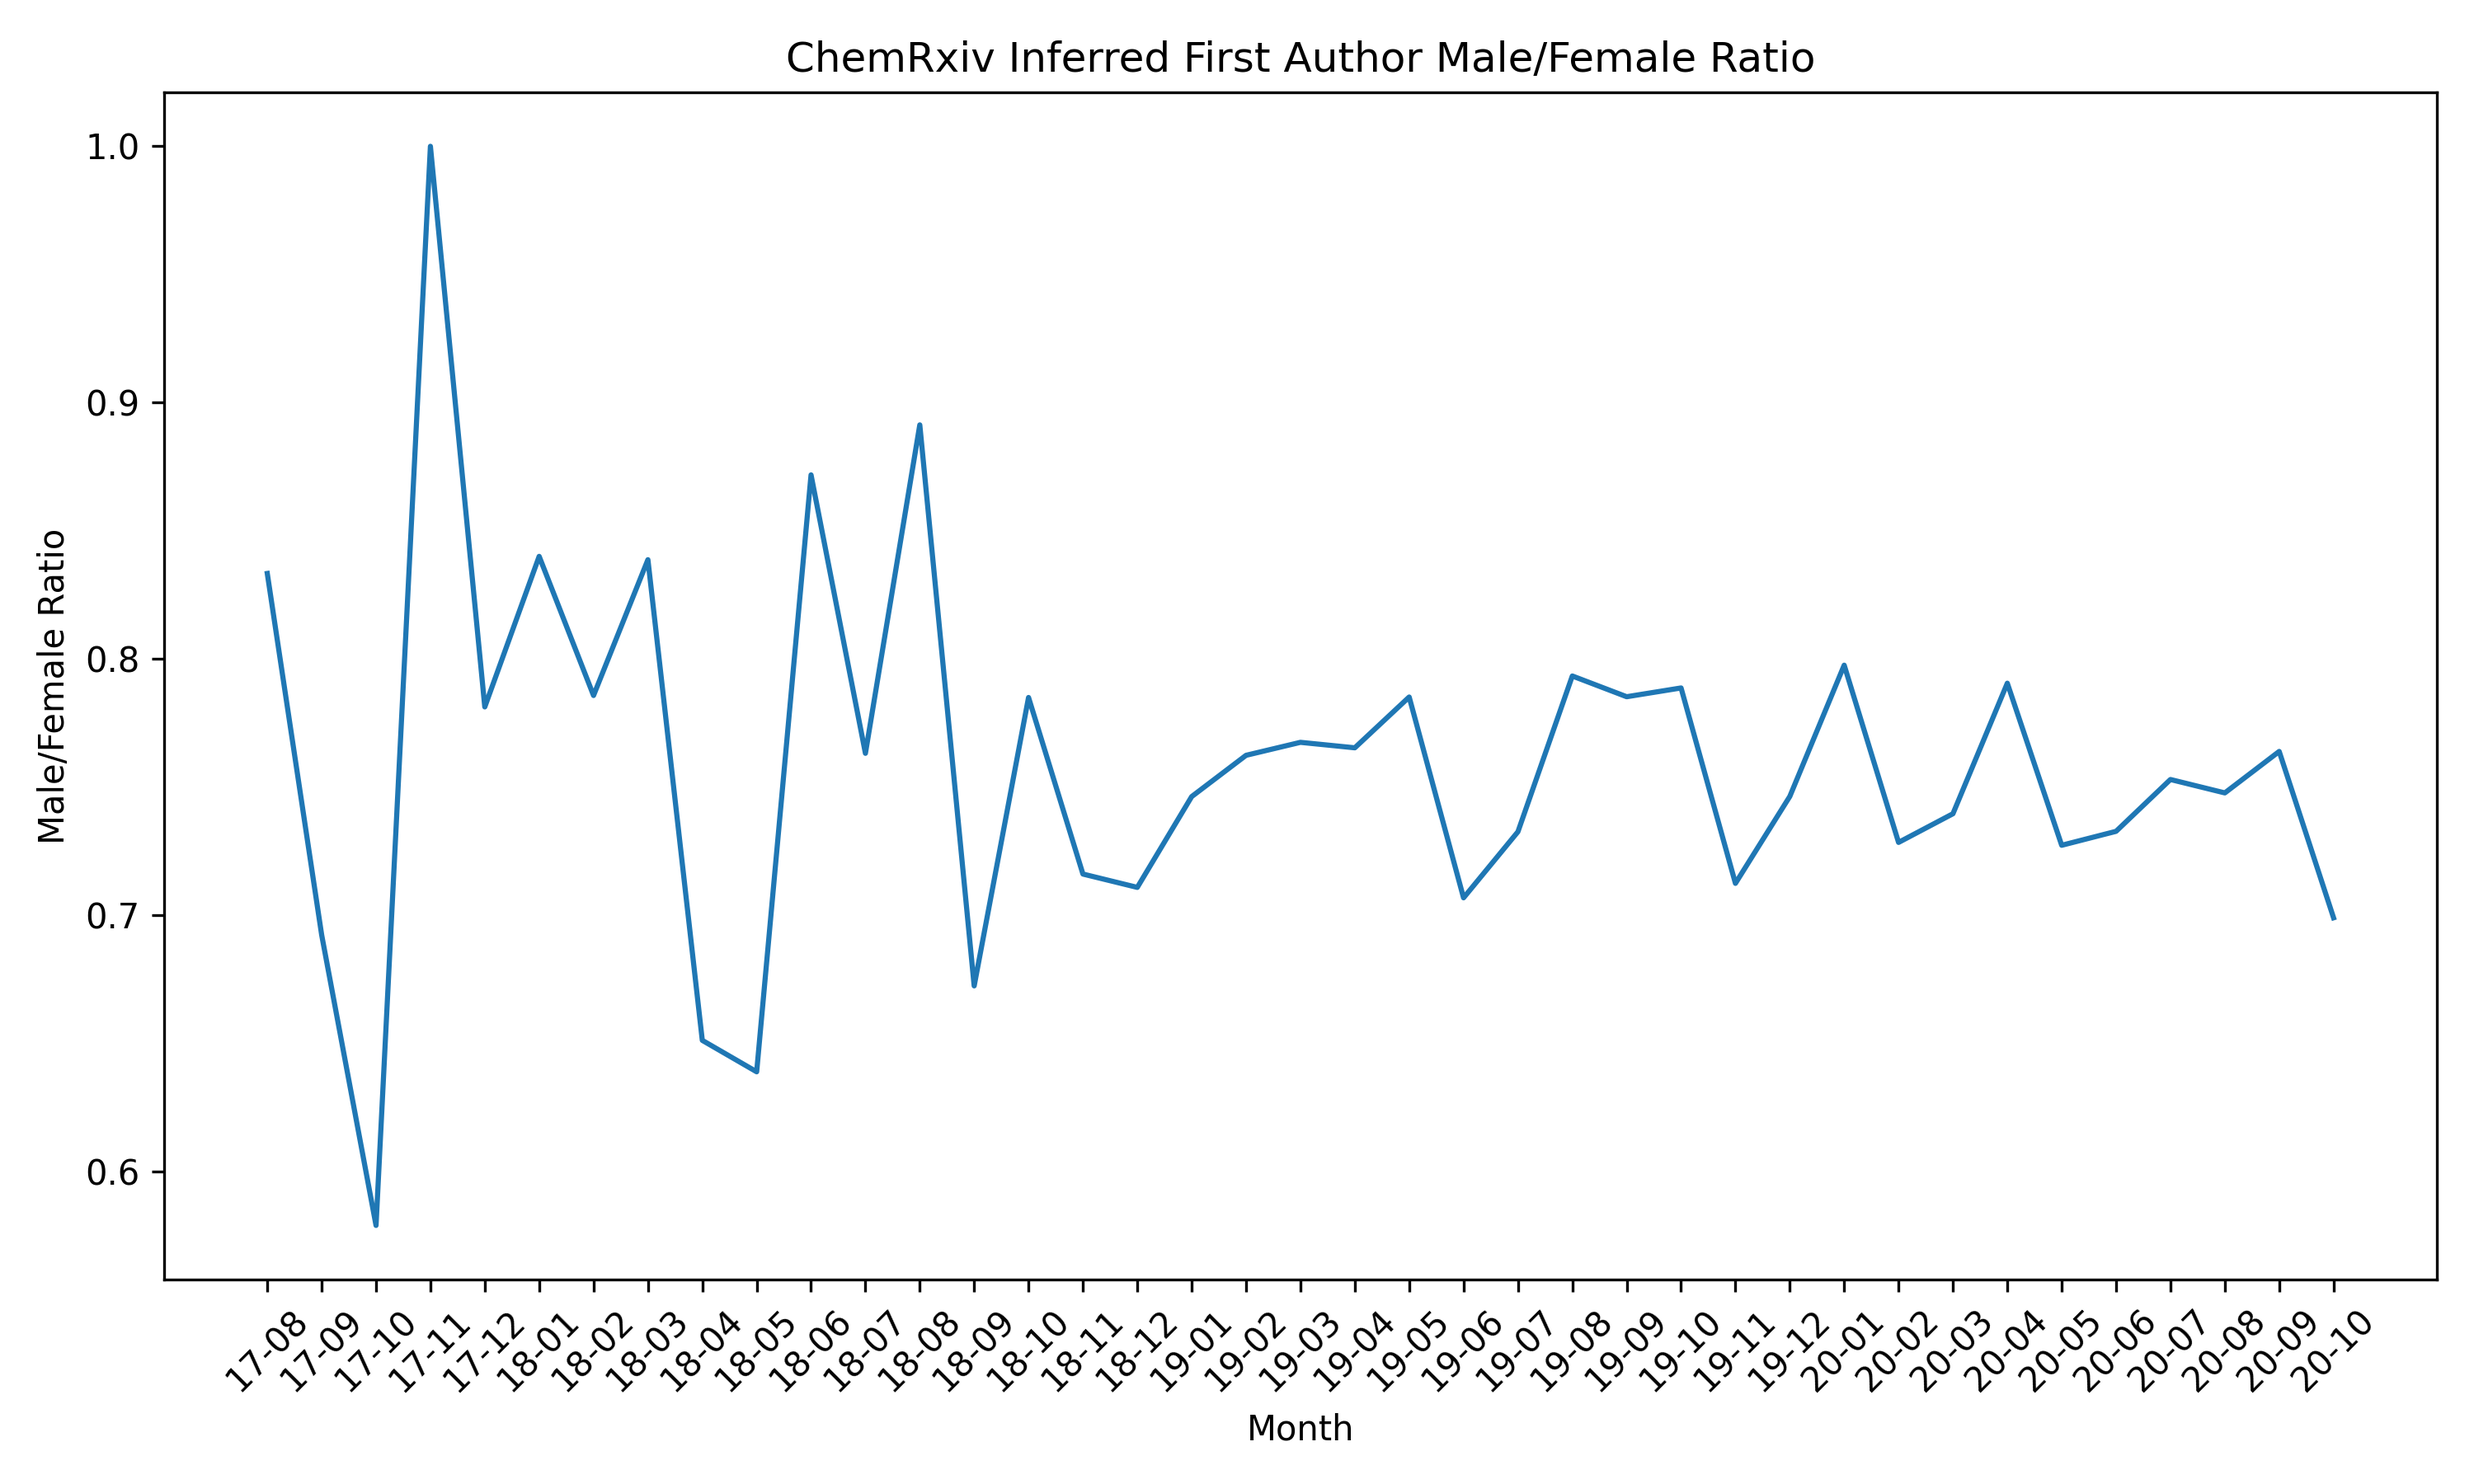
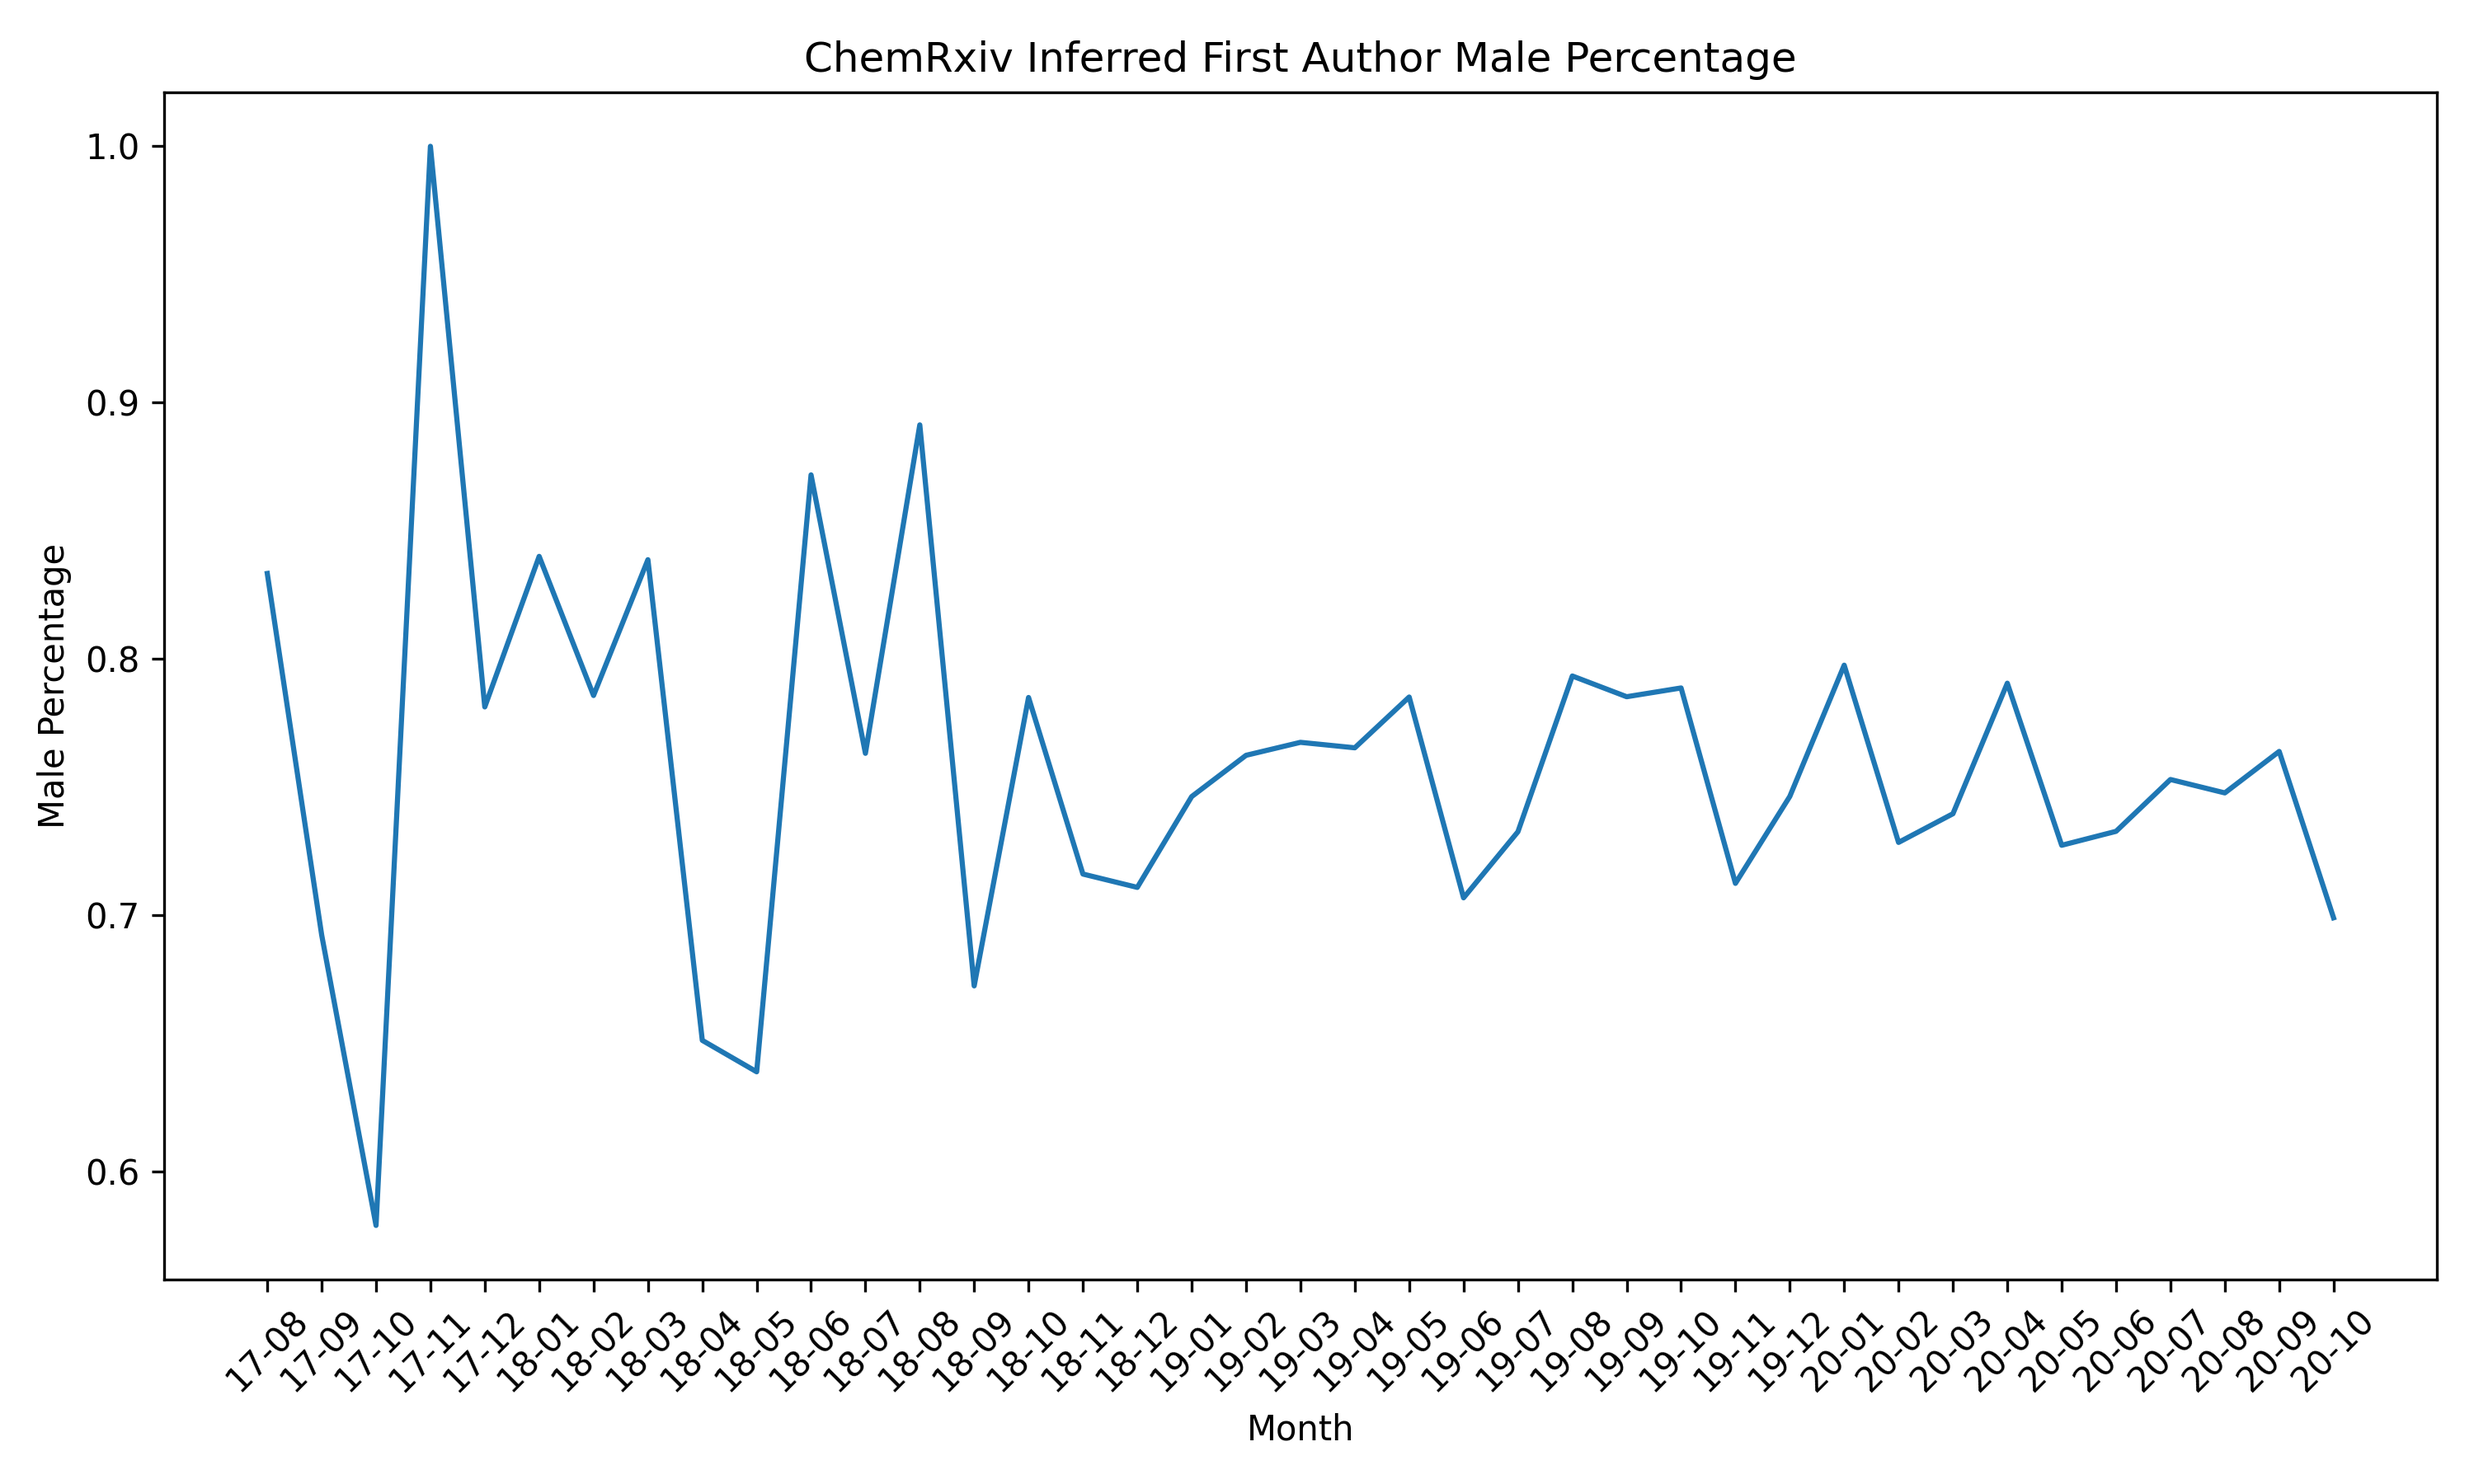
Update male percentage chart

Changed region(s): [[0.31, 0.0311, 0.744, 0.0622], [0.0, 0.3733, 0.031, 0.56]]

diff --git a/03_visualize.py b/03_visualize.py
@@ -150,8 +150,8 @@ def plot_gender_male_percentage(df, directory, institution_name):
     nd['ratio'] = nd['male'] / (nd['male'] + nd['female'])
     sns.lineplot(data=nd, x='time', y='ratio')
     plt.xticks(rotation=45)
-    plt.title(f'{institution_name} Inferred First Author Male/Female Ratio')
-    plt.ylabel('Male/Female Ratio')
+    plt.title(f'{institution_name} Inferred First Author Male Percentage')
+    plt.ylabel('Male Percentage')
     plt.xlabel('Month')
     plt.tight_layout()
     plt.savefig(os.path.join(directory, 'male_percentage_by_month.png'), dpi=300)
